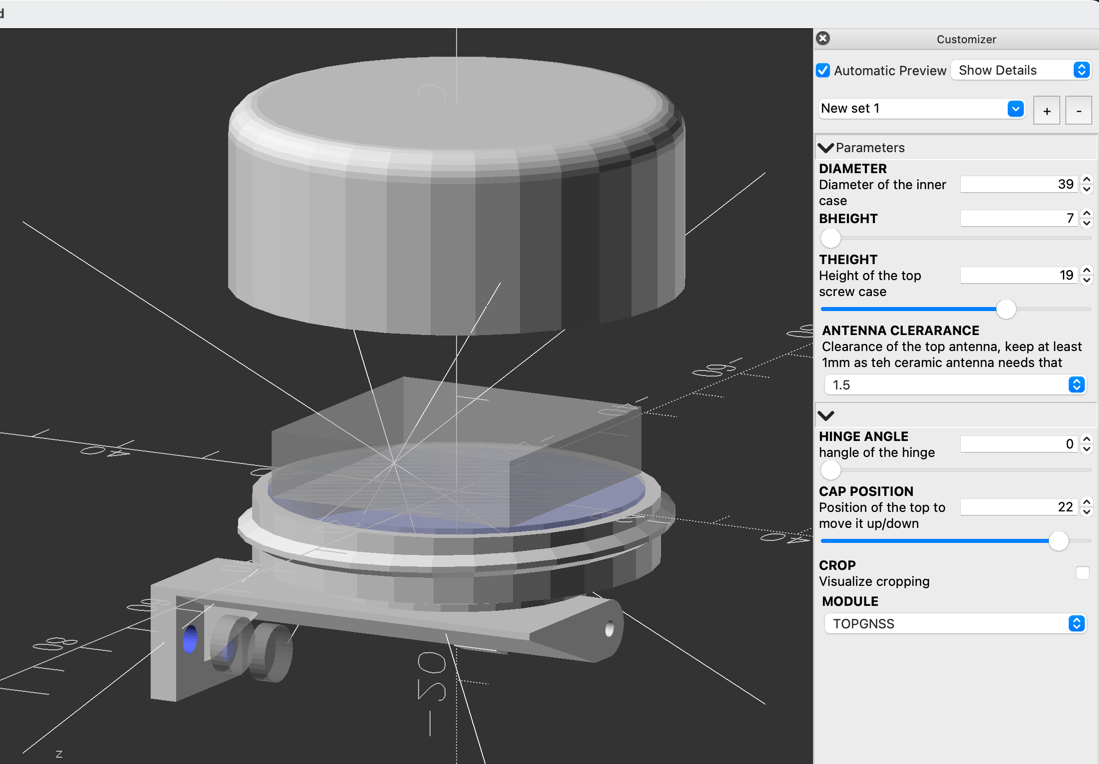
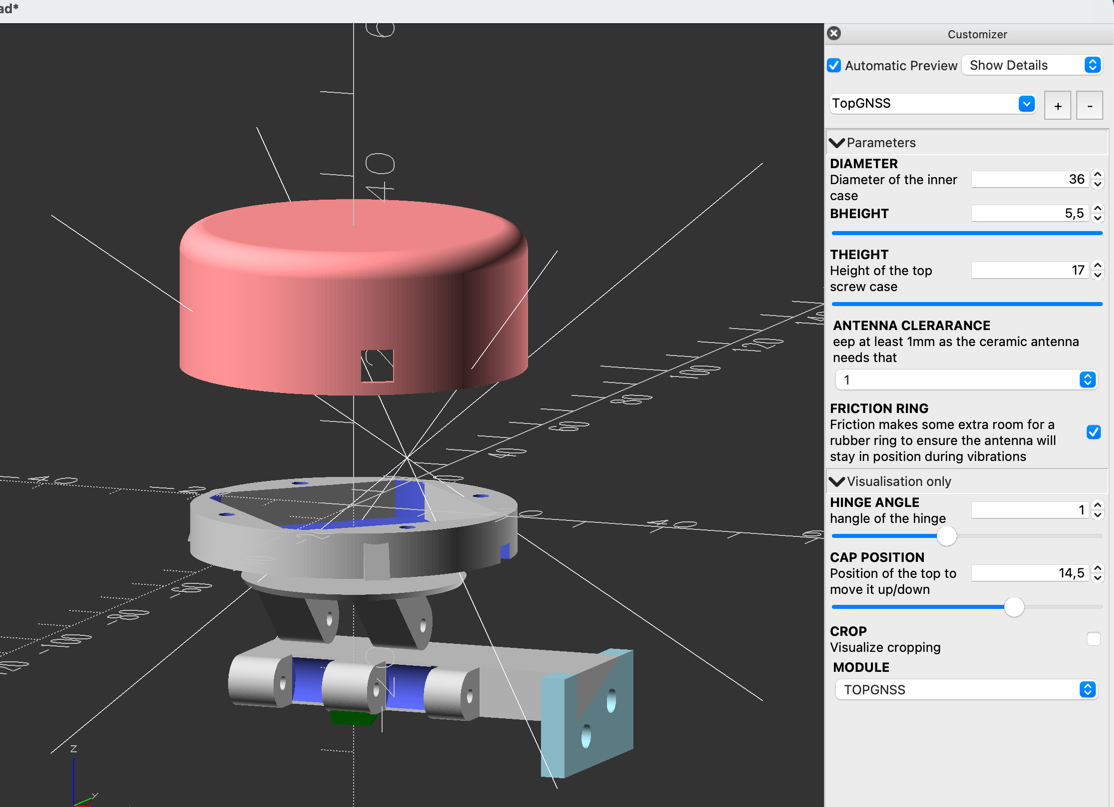
Update GPS Antenna

diff --git a/enclosure/README.md b/enclosure/README.md
@@ -59,11 +59,17 @@ Note: You could also use them on your OGN station instead of a wip antenna
 > **_WARN:**
 > To print in prusa set _Print settings → Support material → Don't support bridges._
 
-There are two way's to use GPS in OpenAce. An external 'pug' antenna with SMA connector, or an rotatable cermaic GPS antenna that can be mounted on the enclosure itself.
-What GPS antenna to use when can be found in the build instructions.
+There are two way's to use GPS in OpenAce. An external 'pug' antenna with SMA connector, or an rotatable ceramic
+GPS antenna that can be mounted on the enclosure itself. What GPS antenna to use when can be found in the build instructions.
+This design is for the GPS antenna attached to the case. This is ideal for situations where OpenAce has clear view
+of the sky mounted upright, or horizontal.
+
+The below screenshots are of the Antenna with aN [TopGNSS Gps Galileo Glonass Beidou](https://nl.aliexpress.com/item/1005002475354983.html) ceramic Antenna.
 
 ![Prusa Printing](../doc/img/gps-antenna-holder.png).
 
-How to print in [PrusaSlicer](https://www.prusa3d.com/page/prusaslicer_424/)
-![Prusa Printing](../doc/img/gpsantenna-prusa.png).
+Parts setup in [PrusaSlicer](https://www.prusa3d.com/page/prusaslicer_424/) example:
+
+
+![Prusa Printing](../doc/img/gps-antenna-prusa.png).
 

diff --git a/README.md b/README.md
@@ -1,7 +1,7 @@
 # OpenAce Conspicuity Device
 
 > **_NOTE:_**:
-> I am in the process of uploading the necessary files to GitHub. More will be added soon, including the ~~OpenSCAD enclosure~~ [enclosure](https://github.com/rvt/OpenAce/tree/initial/parts/enclosure), ~~KiCAD PCB files~~ [Schematic/PCB](https://github.com/rvt/OpenAce/tree/initial/OpenACE%20V0.0.2), unit tests for the source code, and additional resources.
+> I am in the process of uploading the necessary files to GitHub. More will be added soon, including the ~~OpenSCAD enclosure~~ [enclosure](https://github.com/rvt/OpenAce/tree/initial/enclosure), ~~KiCAD PCB files~~ [Schematic/PCB](https://github.com/rvt/OpenAce/tree/initial/OpenACE%20V0.0.2), unit tests for the source code, and additional resources.
 
 > [!TIP]
 > Please visit the [OpenAce WIKI](https://github.com/rvt/OpenAce/wiki) for build information.
